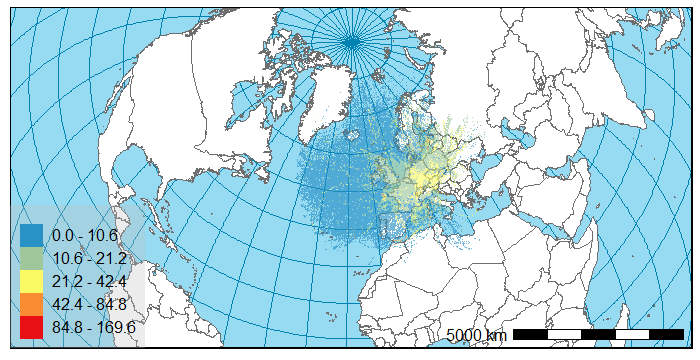
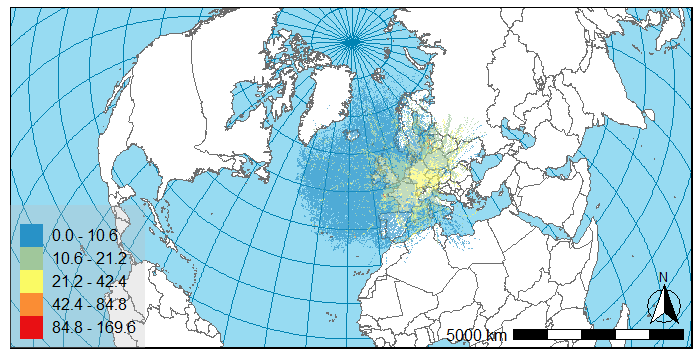
Updated readme with compass option for MetCor and added another reference

Changed region(s): [[0.42, 0.2139, 0.69, 0.7028], [0.93, 0.7639, 0.99, 0.9167]]

diff --git a/README.md b/README.md
@@ -136,6 +136,9 @@ metcor_plot_options$plot$zoom.level <- 2
 # The legend title can contain HTML and markdown code
 metcor_plot_options$legend$title <- "PM<sub>10</sub>"
 
+# Point the compass to the true north (default setting is "grid")
+metcor_plot_options$plot$compass.which_north <- "true"
+
 # Plot the new figure.
 metcor_plot(metcor.raster = metcor_grid,
             metcor.plot.options = metcor_plot_options)
@@ -174,8 +177,10 @@ metcor_plot(metcor.raster = metcor_grid,
 
 For more detailed usage examples see: 
 
-Mooibroek, D., Sofowote, U.M., Hopke, P.K. (2022) [Source apportionment of ambient PM<sub>10</sub> collected at three sites in an urban-industrial area with multi-time resolution factor analyses](https://doi.org/10.1016/j.scitotenv.2022.157981)
+- Mooibroek, D., Sofowote, U.M., Hopke, P.K. (2022) [Source apportionment of ambient PM<sub>10</sub> collected at three sites in an urban-industrial area with multi-time resolution factor analyses](https://doi.org/10.1016/j.scitotenv.2022.157981).
 *Science of The Total Environment*, Volume 850. 
+- Sofowote, U.M., Mooibroek, D., Healy, R.M., Debosz, J., Munoz, A., Hopke, P.K. (2023) [Source apportionment of ambient PM<sub>2.5</sub> in an industrialized city using dispersion-normalized, multi-time resolution factor analyses](https://doi.org/10.1016/j.envpol.2023.121281).
+*Environmental Pollution*, Volume 323.
 
 ## See also
 
